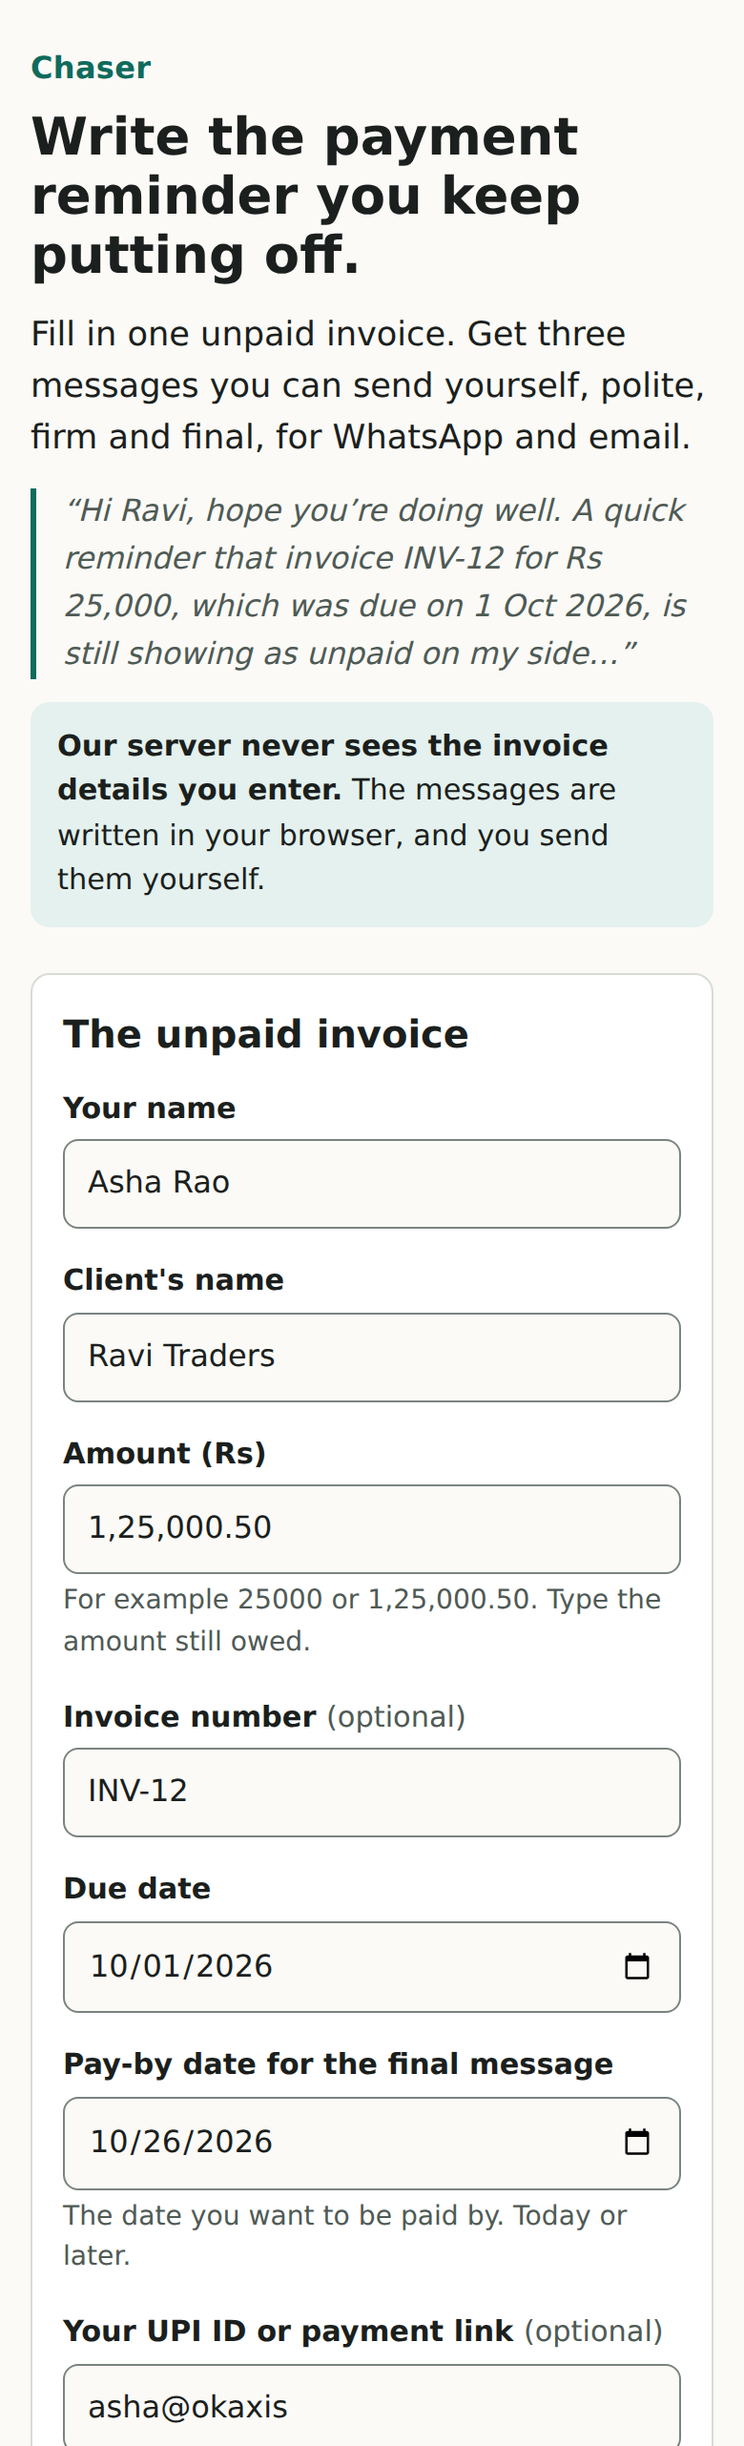
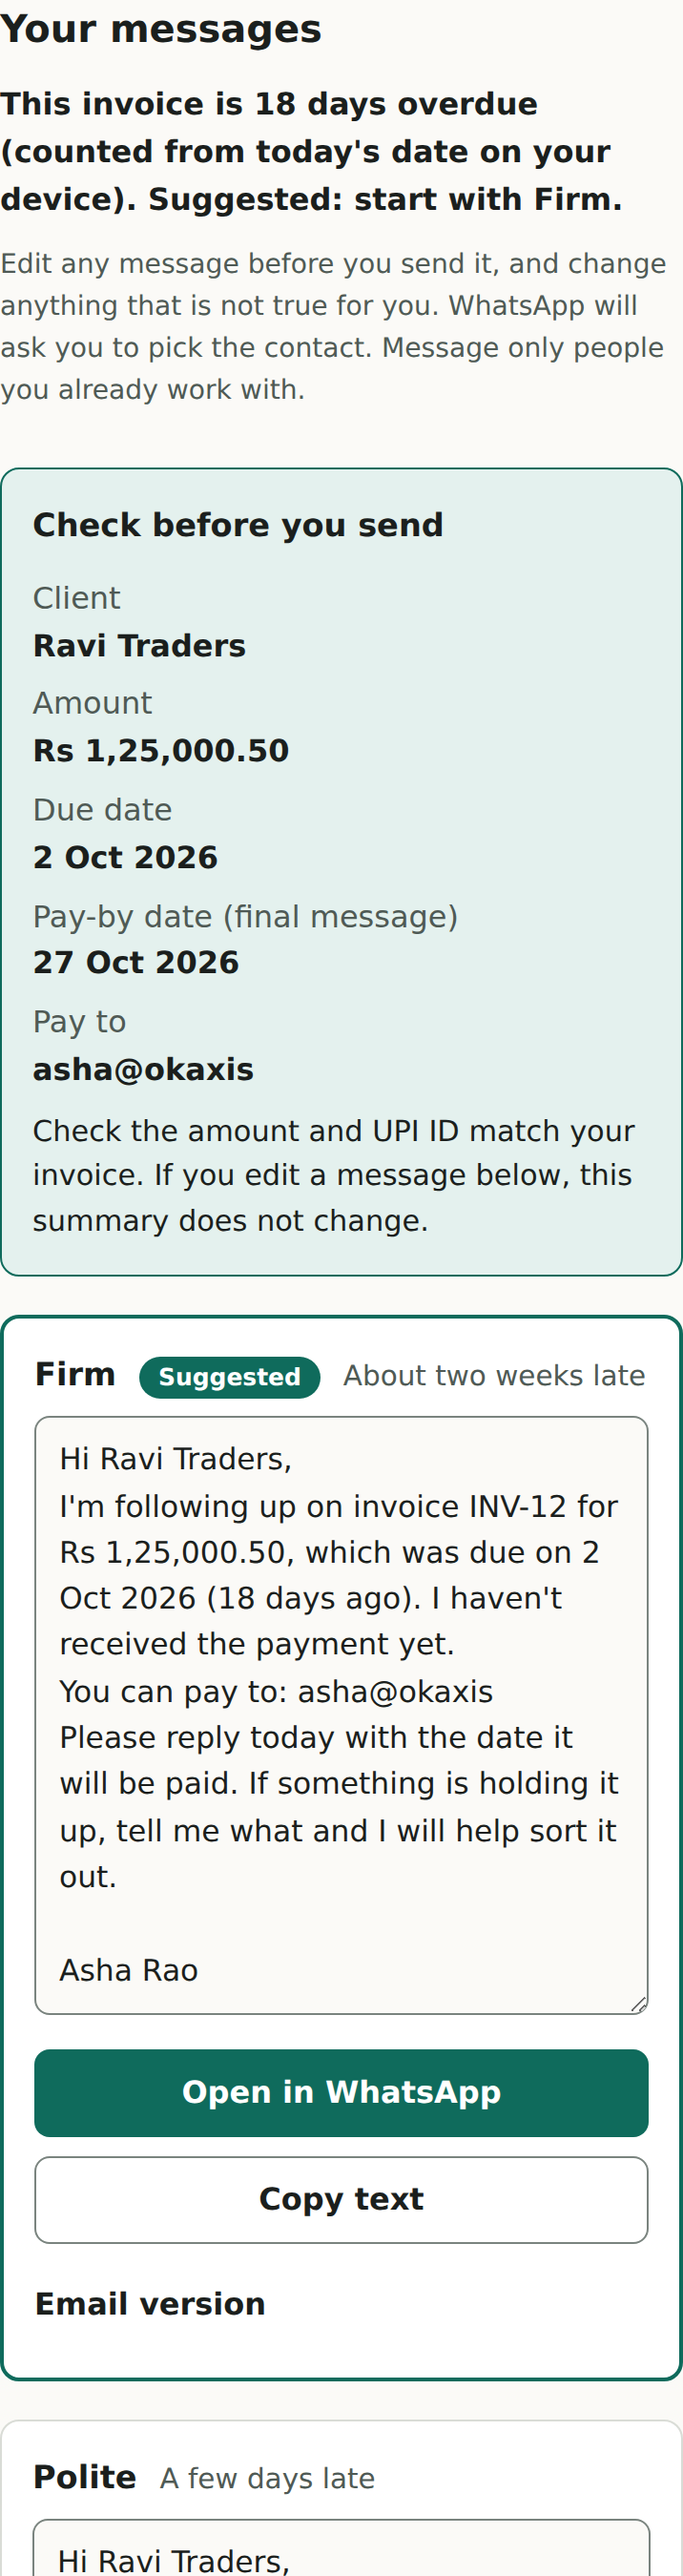
docs: refresh the README images from the current site and Chaser, add a phone view and the Tide run (#13)
Claude-Session: https://claude.ai/code/session_01KHRvdBp9dNMhM5LyW9cT2y

Changed region(s): [[0.0, 0.0, 1.0, 1.0], [0.8911, 0.9672, 0.9218, 1.0], [0.8296, 0.624, 0.8603, 0.6552]]

diff --git a/README.md b/README.md
@@ -12,6 +12,8 @@
 
 <img src="docs/img/site-hero.png" alt="The HyperSkill site: the headline, the install command and a terminal showing the tracker refusing to advance a phase" width="860">
 
+<img src="docs/img/site-hero-phone-dark.png" alt="The same site on a phone in dark mode, which follows the phone's setting" width="300">
+
 </div>
 
 HyperSkill takes a product from **idea to shipped, monitored and promoted** in nine gated phases. One conductor skill (`/hyperskill`) decides which phase you are in, hands the work to that phase's skill, asks you the decisions that are yours, and **refuses to advance a phase until its checks have evidence**.
@@ -113,7 +115,7 @@ python3 scripts/hyperskill.py advance
 
 ## Real runs
 
-HyperSkill was run end to end on two small products. Both live in this repo, with their gate records, decisions, reviews and tests.
+HyperSkill was run end to end on three small products. All live in this repo, with their gate records, decisions, reviews and tests.
 
 ### DueSoon: all nine phases ([`examples/duesoon`](examples/duesoon))
 
@@ -130,19 +132,23 @@ A tool to write payment reminders for Indian freelancers. Four parallel research
 </tr>
 </table>
 
-39 unit and API tests, 17 browser tests (a test fails if the form data is sent anywhere), and 16 of 16 mutation checks killed. Its research is [`docs/research.md`](examples/chaser/docs/research.md), the design review [`docs/design-review.md`](examples/chaser/docs/design-review.md). The foundation and product gates of this run are not closed yet.
+**The owner then decided to keep it free**, so the pricing button, waitlist and counters were removed and it is now a plain static page ([live](https://hyperskill-hazel.vercel.app/chaser)). Today: 25 unit tests, 16 browser tests (a test fails if the page makes any request after it loads), and 11 of 11 mutation checks killed. Its research is [`docs/research.md`](examples/chaser/docs/research.md), the design review [`docs/design-review.md`](examples/chaser/docs/design-review.md). The foundation and product gates of this run are not closed yet.
+
+### Tide: all nine phases, and the later phases found real bugs ([`examples/tide`](examples/tide))
+
+A focus timer shaped like a glass of water ([live](https://hyperskill-hazel.vercel.app/tide)). Built first, then run through the whole pipeline afterwards to see whether the ship, harden, operate, launch and scale phases hold up. 68 checks: **40 passed with evidence, 28 waived with written reasons** (most need a host, a monitoring provider or a person that a sandbox does not have). Independent reviewers and the harden checks found problems the tests had missed: corrupt saved settings made the display read `NaN:NaN`; with reduced motion the glass never drained; a stray key wiped a running session; a clock set back could extend a session; the live security policy was looser than the threat model said; and the pre-commit hook skipped file names with spaces. Each was fixed with a test. Today: 22 unit tests, 28 browser tests (accessibility included), all 10 mutation checks killed, a load test and a cost model with real numbers. Not tested: a real phone, a real screen reader, the deployed host under load.
 
 ## What is and is not verified
 
 Verified:
 
 - The plugin installs from GitHub into a clean config, and `/hyperskill` ran headless from an install of the same plugin (two separate tests, not one end-to-end run).
-- The tracker and the integration resolver are covered by 103 tests; `claude plugin validate .` passes.
+- The tracker and the integration resolver are covered by 105 tests; `claude plugin validate .` passes.
 - Two full runs on real code, described above, with the failures they exposed.
 
 Not verified, so do not rely on it yet:
 
-- It has been run only by its author, on two small products. Nobody else has used it.
+- It has been run only by its author, on three small products. Nobody else has used it.
 - The video instructions (`hs-launch`) were checked against the installed HyperFrames documentation, not executed.
 - Third-party skills are read at README level and not pinned to a version. Read a skill before enabling it; installed skills run with your agent's permissions.
 - The reference text was rewritten in original wording from guides that state no licence. That is not a legal clearance (see [`docs/sources.md`](docs/sources.md)).
@@ -163,7 +169,7 @@ site/                  the static launch site (Vercel; vercel.json); site/live i
 examples/duesoon/      full nine-phase run
 examples/chaser/       research, plan and build of the second run
 docs/                  sources, integration review, README images
-tests/                 103 tests for the tracker, resolver, activity log, hook, live server, structure and site
+tests/                 105 tests for the tracker, resolver, activity log, hook, live server, structure and site
 ```
 
 ## Develop
